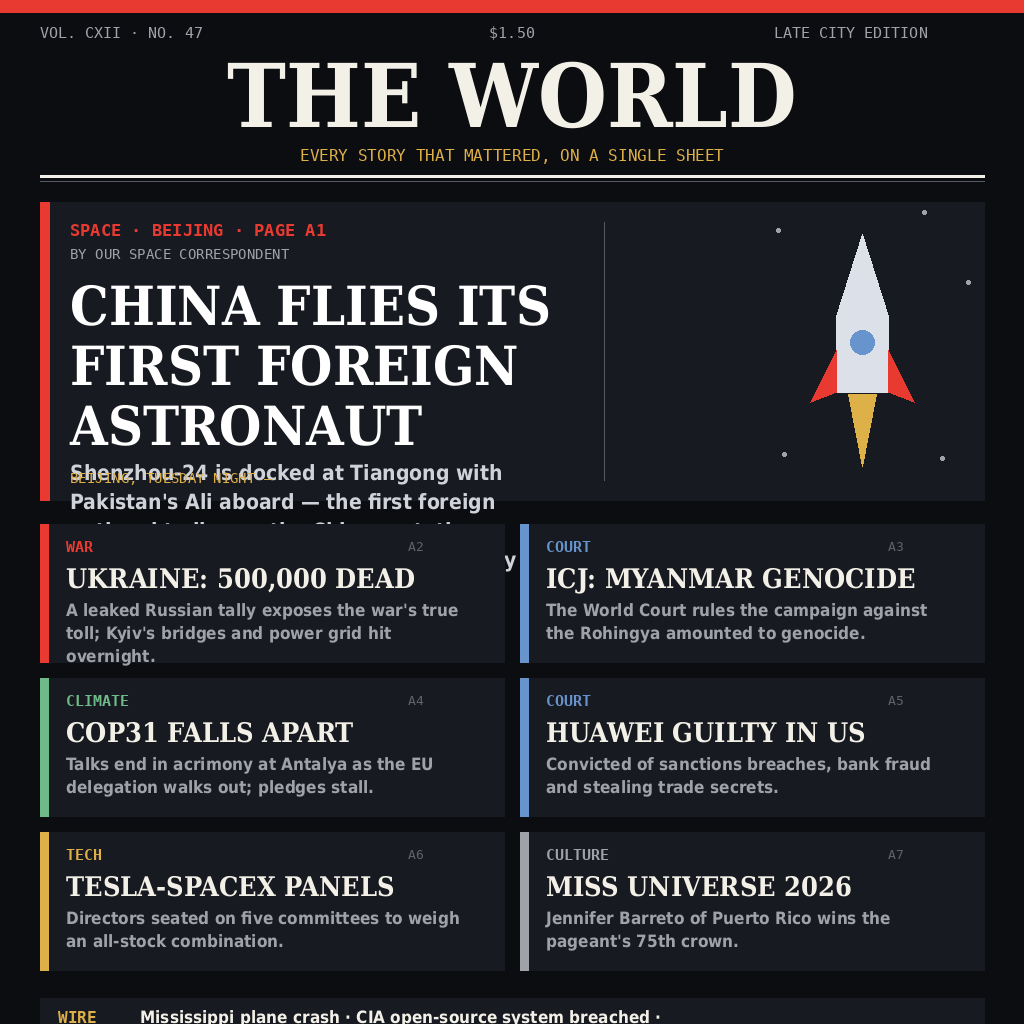
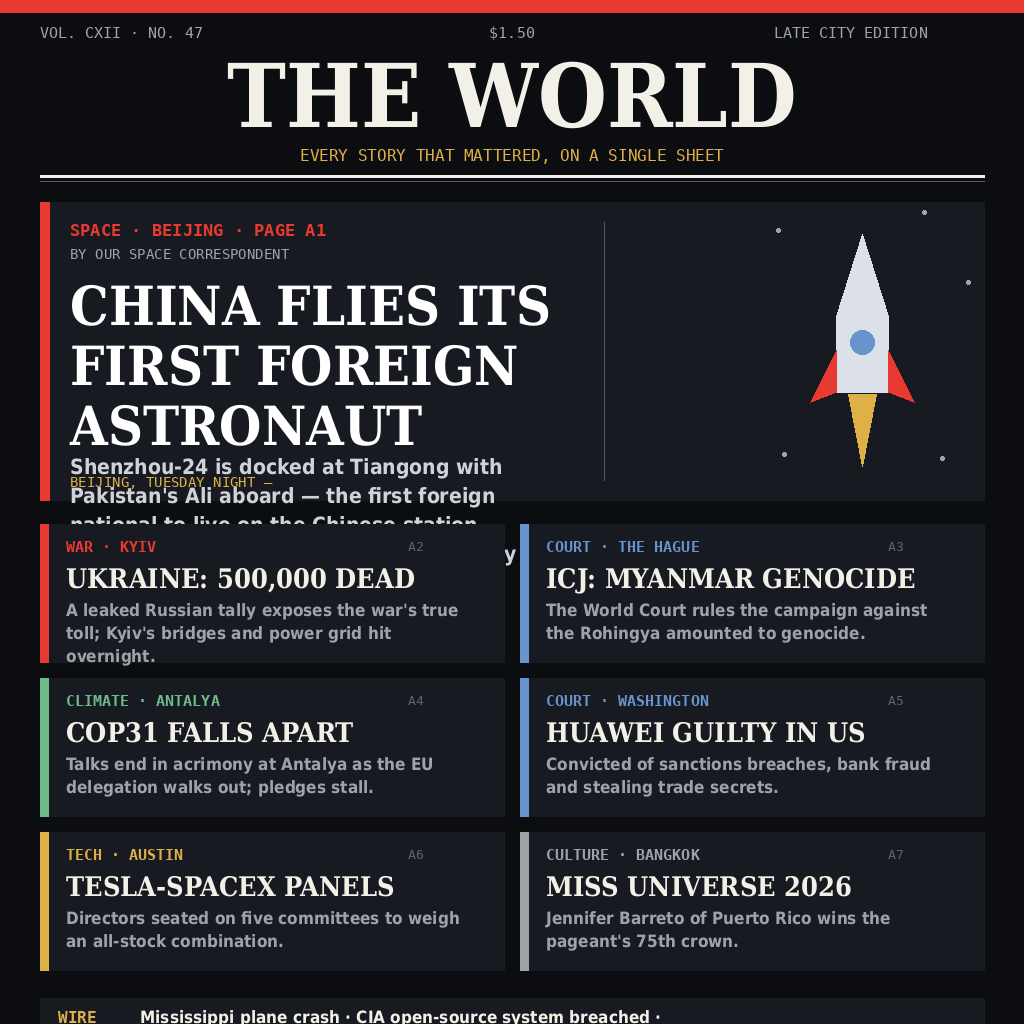
Round 3b: dateline kickers on grid cards, hero spacing tightened

diff --git a/gen_news.py b/gen_news.py
@@ -82,10 +82,10 @@ brush.text((hx, TOP + 192), 'ASTRONAUT', font=face('head', 54), fill=BRIGHT)
 hero_body = ("Shenzhou-24 is docked at Tiangong with Pakistan's Ali aboard — "
              "the first foreign national to live on the Chinese station, "
              "crowned by a state broadcast watched by 900 million.")
-draw_lines(hx, TOP + 258, wrap(hero_body, face('body', 21), EDGE - hx - 420),
+draw_lines(hx, TOP + 252, wrap(hero_body, face('body', 21), EDGE - hx - 420),
            face('body', 21), (208, 210, 218), 29)
 # dateline chip at hero bottom
-brush.text((hx, BOT - 30), 'BEIJING, TUESDAY NIGHT —', font=face('tick', 14), fill=AMBER)
+brush.text((hx, BOT - 26), 'BEIJING, TUESDAY NIGHT —', font=face('tick', 14), fill=AMBER)
 
 # simple rocket illustration, right side of the hero panel
 cx, cy = 862, 330
@@ -101,17 +101,17 @@ brush.line([EDGE - 380, TOP + 20, EDGE - 380, BOT - 20], fill=RULE, width=1)
 
 # ------------------------------------------------------------ story grid
 cells = [
-    ('WAR', RED, 'UKRAINE: 500,000 DEAD',
+    ('WAR · KYIV', RED, 'UKRAINE: 500,000 DEAD',
      "A leaked Russian tally exposes the war's true toll; Kyiv's bridges and power grid hit overnight."),
-    ('COURT', STEEL, 'ICJ: MYANMAR GENOCIDE',
+    ('COURT · THE HAGUE', STEEL, 'ICJ: MYANMAR GENOCIDE',
      'The World Court rules the campaign against the Rohingya amounted to genocide.'),
-    ('CLIMATE', JADE, 'COP31 FALLS APART',
+    ('CLIMATE · ANTALYA', JADE, 'COP31 FALLS APART',
      'Talks end in acrimony at Antalya as the EU delegation walks out; pledges stall.'),
-    ('COURT', STEEL, 'HUAWEI GUILTY IN US',
+    ('COURT · WASHINGTON', STEEL, 'HUAWEI GUILTY IN US',
      'Convicted of sanctions breaches, bank fraud and stealing trade secrets.'),
-    ('TECH', AMBER, 'TESLA-SPACEX PANELS',
+    ('TECH · AUSTIN', AMBER, 'TESLA-SPACEX PANELS',
      'Directors seated on five committees to weigh an all-stock combination.'),
-    ('CULTURE', ASH, 'MISS UNIVERSE 2026',
+    ('CULTURE · BANGKOK', ASH, 'MISS UNIVERSE 2026',
      "Jennifer Barreto of Puerto Rico wins the pageant's 75th crown."),
 ]
 
